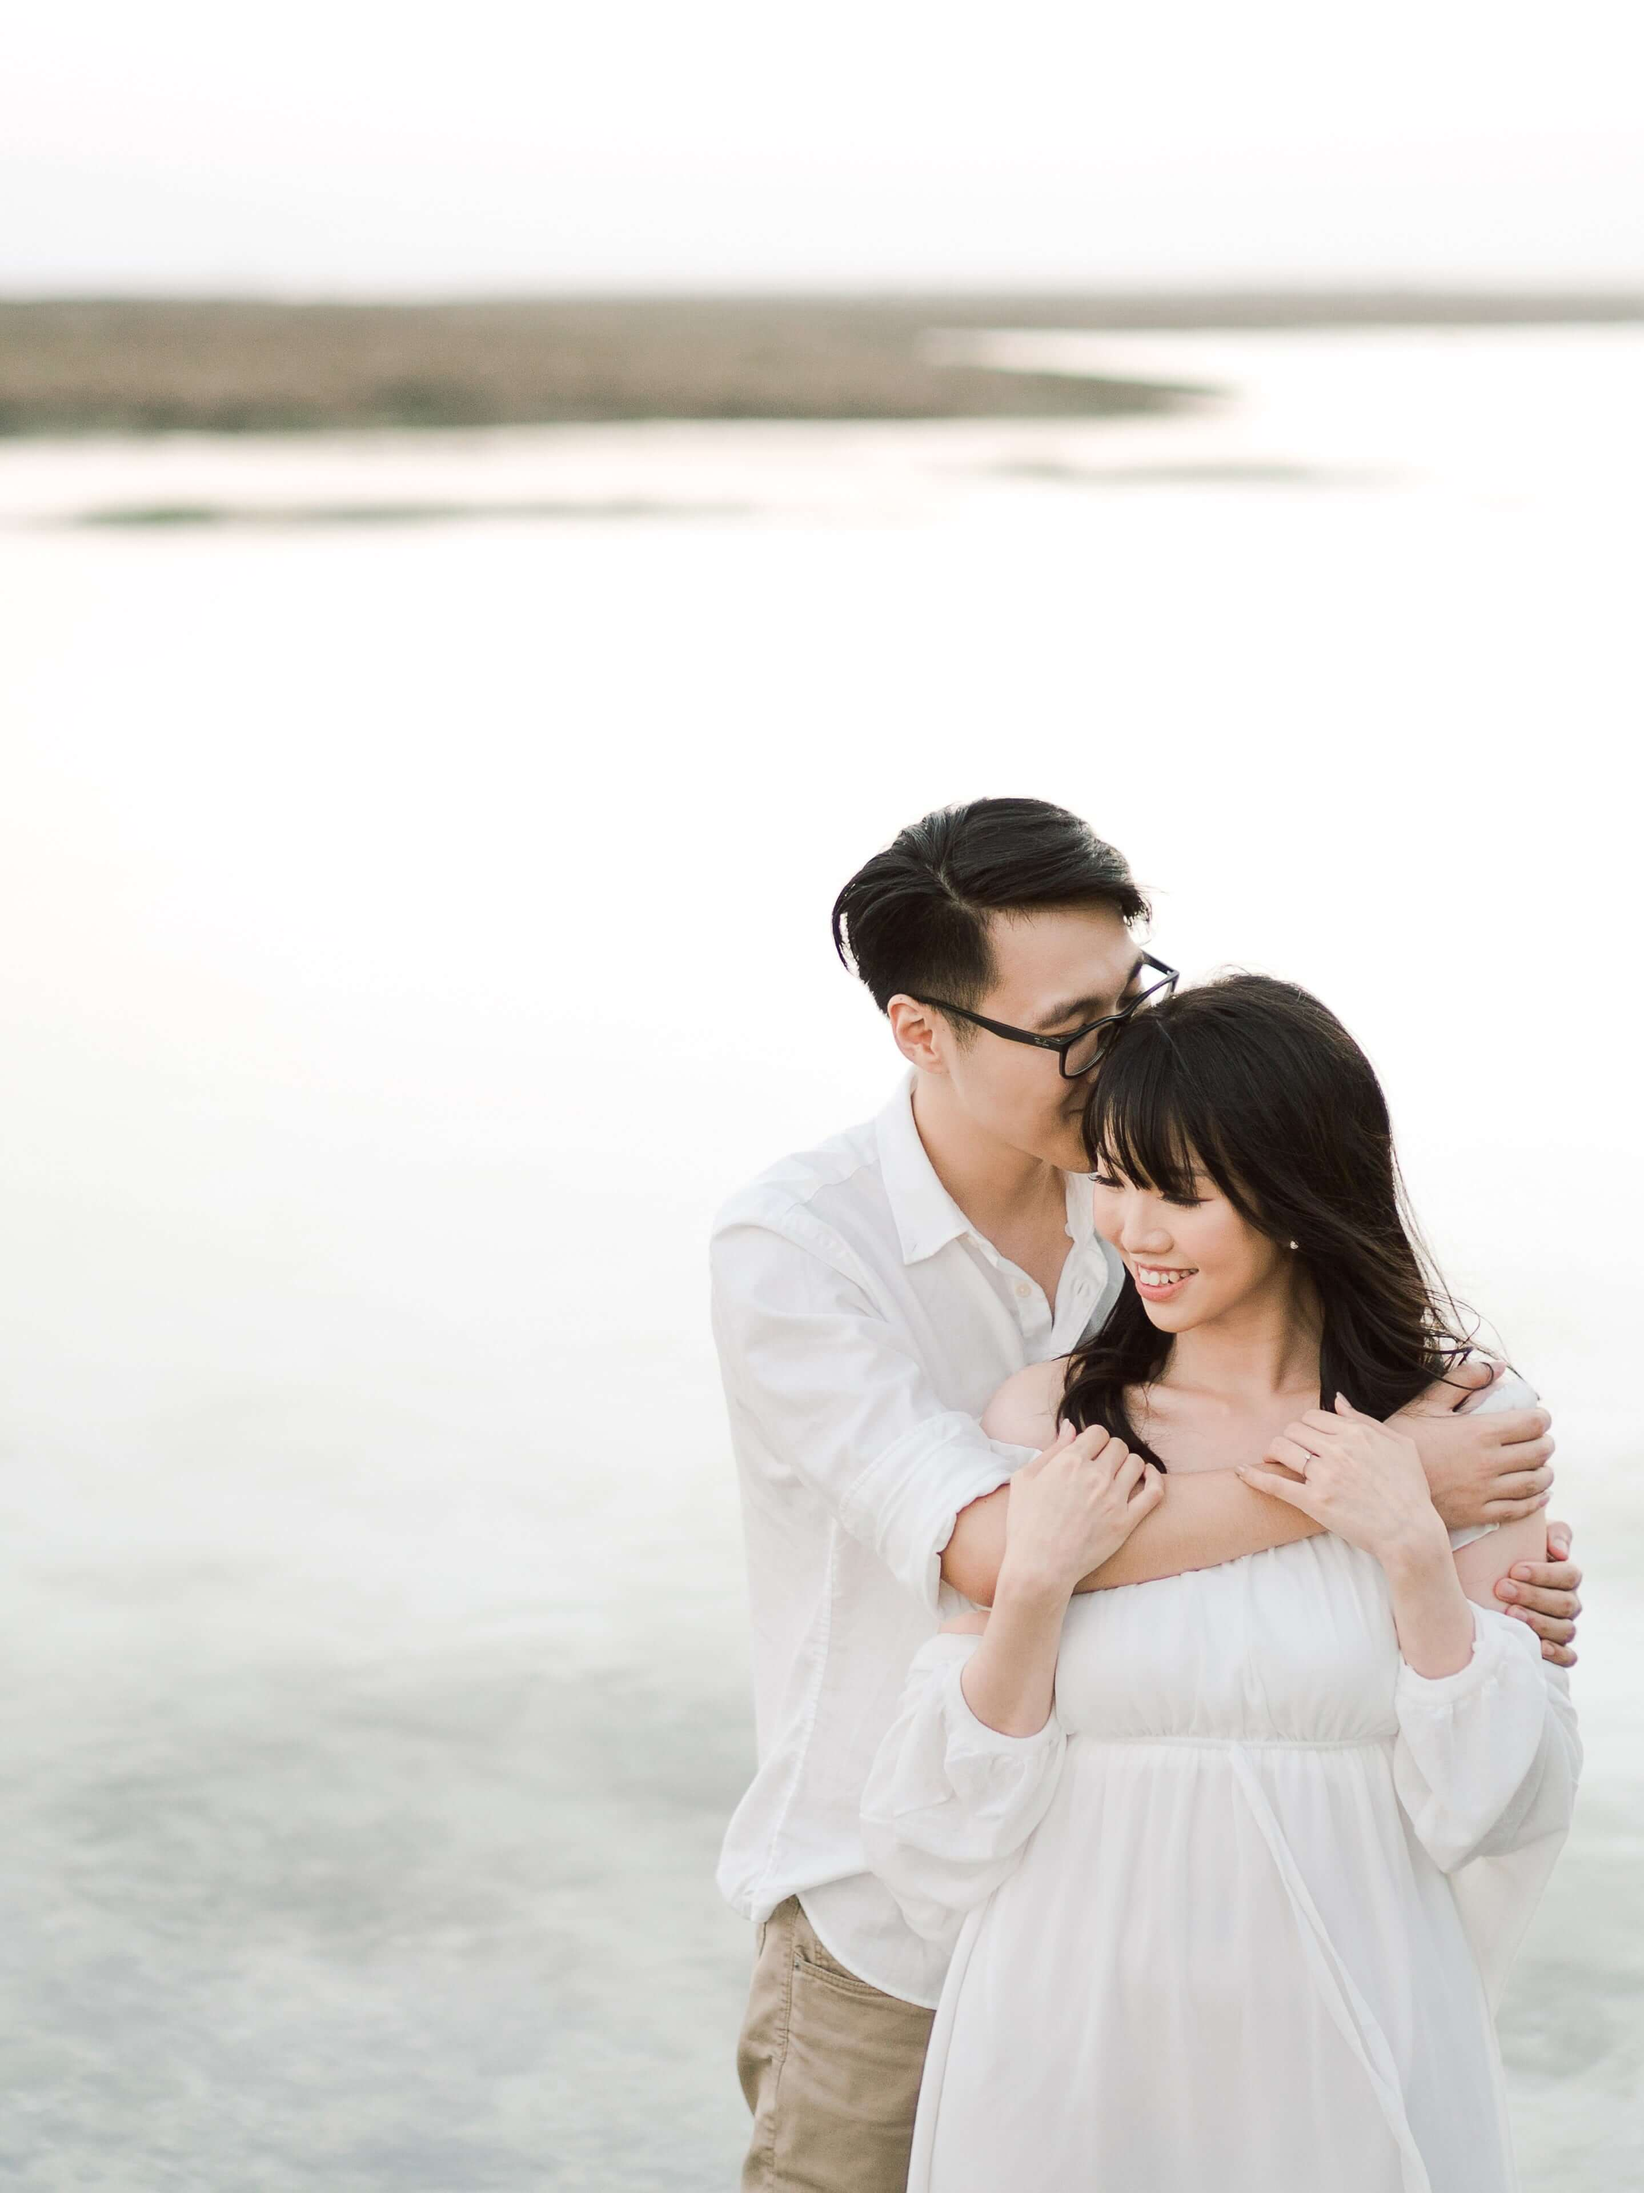
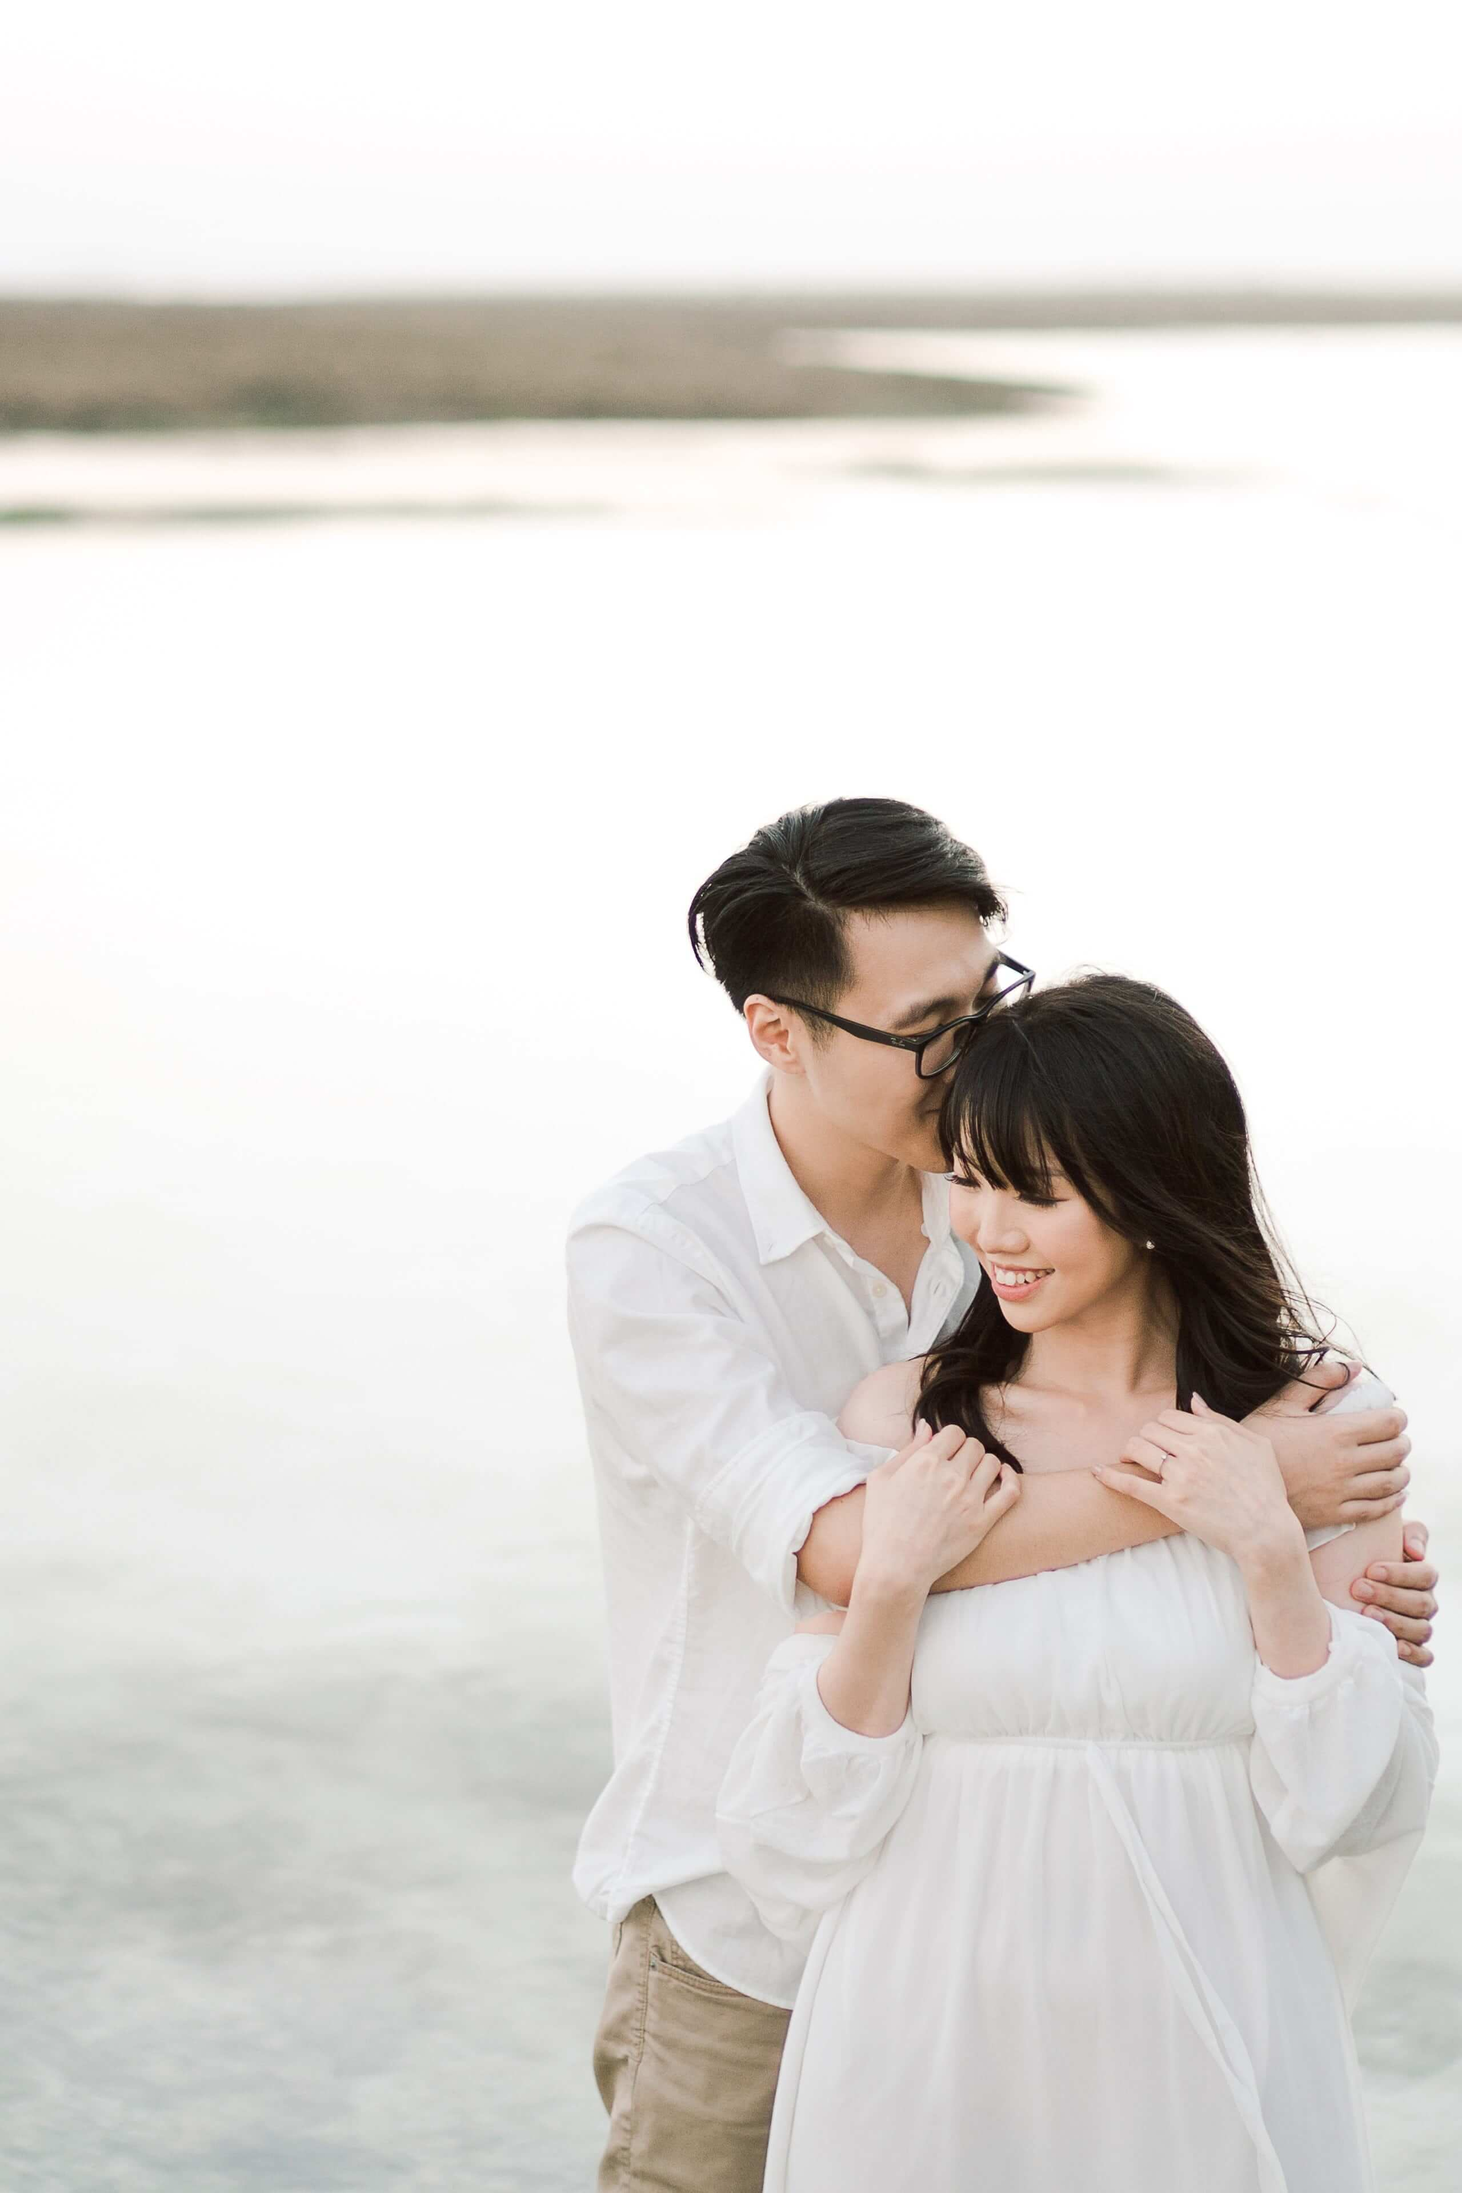
change asset

diff --git a/index.html b/index.html
@@ -84,7 +84,7 @@
 
             <!-- Intro Text -->
             <div class="box">
-                <div class="title1 title1_2"><div class="im3" data-image="img/save_the_date.png"></div></div>
+                <div class="title1 title1_2"><div class="im3" data-image="img/savethedate3.png"></div></div>
                 <!-- <div class="title1"><span>18 <b>02</b></span></div> -->
                 <div class="title1"><span>19.01.2020</span></div>
             </div>
@@ -323,7 +323,10 @@
 
                 <div class="title1">Andika &amp; Monika</div>
                 <!-- Copyrights -->
-                <div class="copyrights"> © 2019 <a href="https://github.com/ironecally">Ironecally</a></div>
+                <div class="copyrights"> 
+                © 2019 <a href="https://github.com/ironecally">Ironecally</a> &amp; 
+                <a href="https://www.instagram.com/coratcoretgram/">@coratcoretgram</a>
+                </div>
 
             </div>
         </div>
